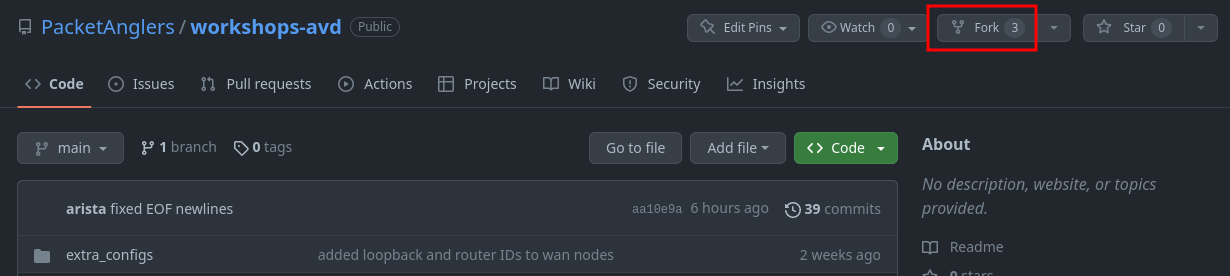
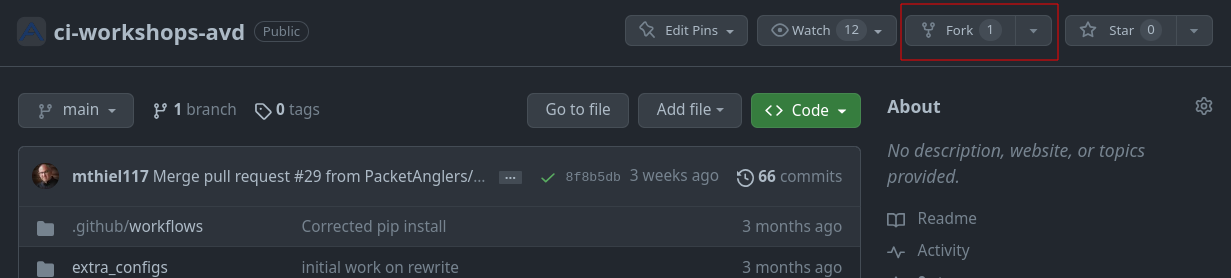
Updates for git moves

diff --git a/workshops/cicd-basics.md b/workshops/cicd-basics.md
@@ -17,7 +17,7 @@ Throughout this section, we will use the following dual data center topology. Cl
 
 ## Getting started
 
-This repository leverages the dual data center (DC) ATD. If you are not leveraging the ATD, you may still leverage this repository for a similar deployment. Please note that some updates may have to be made for the reachability of nodes and CloudVision (CVP) instances. This example was created with Ansible [AVD](https://avd.sh/en/stable/) version `3.8.1`.
+This repository leverages the dual data center (DC) ATD. If you are not leveraging the ATD, you may still leverage this repository for a similar deployment. Please note that some updates may have to be made for the reachability of nodes and CloudVision (CVP) instances. This example was created with [Ansible AVD](https://avd.arista.com/4.1/index.html) version `4.1`.
 
 ### Local installation
 
@@ -40,7 +40,7 @@ ansible-galaxy collection list
 ```
 
 ```shell hl_lines="9"
-➜  workshops-avd git:(main) ansible-galaxy collection list
+➜  ci-workshops-avd git:(main) ansible-galaxy collection list
 
 # /home/coder/.ansible/collections/ansible_collections
 Collection        Version
@@ -52,7 +52,7 @@ arista.avd        4.1.0
 arista.cvp        3.6.1
 arista.eos        6.0.0
 community.general 6.2.0
-➜  workshops-avd git:(main)
+➜  ci-workshops-avd git:(main)
 ```
 
 If AVD version `4.0.0` or greater is not present, please upgrade to the latest stable version.
@@ -66,7 +66,7 @@ pip3 install -r ${ARISTA_AVD_DIR}/arista/avd/requirements.txt
 
 ## Fork repository
 
-You will be creating your own CI/CD pipeline in this workflow. Log in to your GitHub account and [fork this repository](https://github.com/PacketAnglers/workshops-avd) to get started.
+You will be creating your own CI/CD pipeline in this workflow. Log in to your GitHub account and fork the [`ci-workshops-avd`](https://github.com/aristanetworks/ci-workshops-avd/) repository to get started.
 
 !!! note
     You can skip this step if the repository was forked during the AVD workshop.
@@ -110,7 +110,7 @@ You will need to set one secret in your newly forked GitHub repository.
 
 Every user will get a unique CVP instance deployed. There are two updates required.
 
-1. Add the `ansible_host` variable under the `cvp` host in the `/home/coder/project/labfiles/workshops-avd/sites/site_1/inventory.yml` file. The domain name can be located at the top of your ATD lab environment.
+1. Add the `ansible_host` variable under the `cvp` host in the `/home/coder/project/labfiles/ci-workshops-avd/sites/site_1/inventory.yml` file. The domain name can be located at the top of your ATD lab environment.
 
     ```yaml
     ---
@@ -123,7 +123,7 @@ Every user will get a unique CVP instance deployed. There are two updates requir
        ...
     ```
 
-2. Add the `ansible_host` variable under the `cvp` host in the `/home/coder/project/labfiles/workshops-avd/sites/site_2/inventory.yml` file.
+2. Add the `ansible_host` variable under the `cvp` host in the `/home/coder/project/labfiles/ci-workshops-avd/sites/site_2/inventory.yml` file.
 
     ```yaml
     ---
@@ -144,7 +144,7 @@ Every user will get a unique CVP instance deployed. There are two updates requir
 1. From the IDE terminal, run the following:
 
     ```shell
-    cd /home/coder/project/labfiles/workshops-avd
+    cd /home/coder/project/labfiles/ci-workshops-avd
     git config --global user.name "FirstName LastName"
     git config --global user.email "name@example.com"
     git add .
@@ -302,7 +302,7 @@ We can look at the benefits of pre-commit by introducing three errors in a group
 We can run pre-commit manually by running the `pre-commit run -a` command.
 
 ```shell
-➜  workshops-avd git:(main) ✗ pre-commit run -a
+➜  ci-workshops-avd git:(main) ✗ pre-commit run -a
 trim trailing whitespace.................................................Passed
 fix end of files.........................................................Failed
 - hook id: end-of-file-fixer
@@ -320,7 +320,7 @@ while parsing a block mapping
 did not find expected key
   in "sites/site_1/group_vars/SITE1_FABRIC_SERVICES.yml", line 27, column 17
 
-➜  workshops-avd git:(main) ✗
+➜  ci-workshops-avd git:(main) ✗
 ```
 
 We can see the two failures. pre-commit hooks will try and fix errors. However, pre-commit does not assume our intent with the YAML file; that fix is up to us. If you correct the indentation in the file and rerun pre-commit, you will see all passes.
@@ -341,11 +341,11 @@ We can see the two failures. pre-commit hooks will try and fix errors. However, 
 ```
 
 ```shell
-➜  workshops-avd git:(main) ✗ pre-commit run -a
+➜  ci-workshops-avd git:(main) ✗ pre-commit run -a
 trim trailing whitespace.................................................Passed
 fix end of files.........................................................Passed
 check yaml...............................................................Passed
-➜  workshops-avd git:(main)
+➜  ci-workshops-avd git:(main)
 ```
 
 #### Filter changes to the Pipeline
@@ -655,7 +655,7 @@ Congratulations, you have successfully deployed a CI/CD pipeline with GitHub Act
 !!! note
     If your topology shuts down or time elapses, you must install the requirements, Git configuration, and GitHub authentication.
 
-    You must also to set the `LABPASSPHRASE` environment variable in the IDE terminal.
+    You must also set the `LABPASSPHRASE` environment variable in the IDE terminal.
 
     ```shell
     export LABPASSPHRASE=`cat /home/coder/.config/code-server/config.yaml| grep "password:" | awk '{print $2}'`
